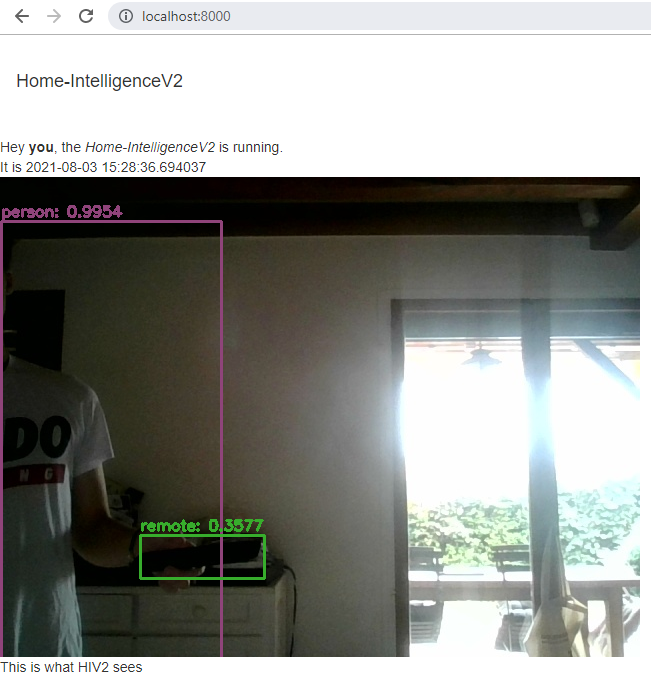
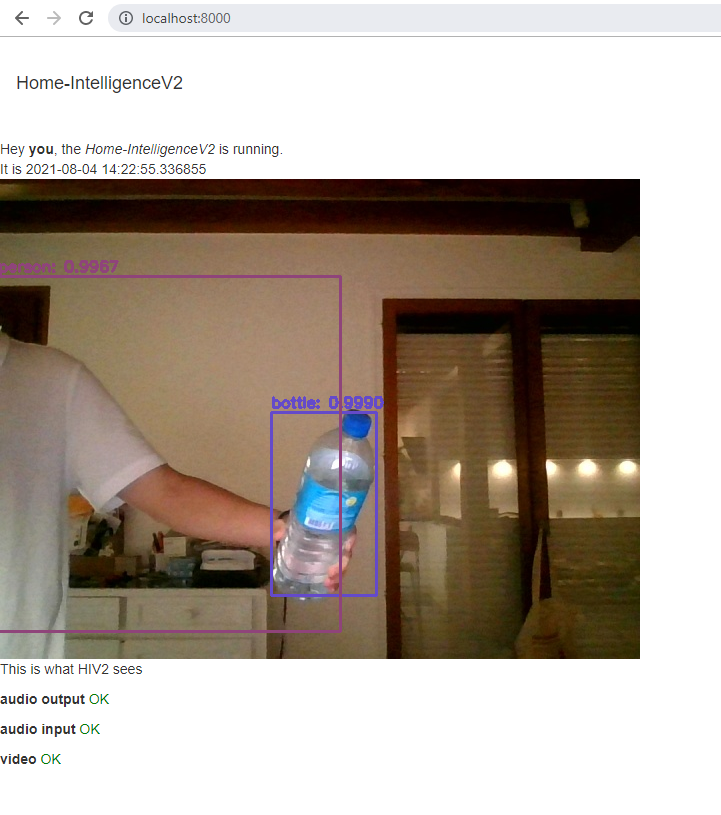
error handling & better cv & interface

diff --git a/server.py b/server.py
@@ -10,13 +10,16 @@ import signal
 import sys
 import random
 
-from config import config
+import config
 
 def signal_handler(sig, frame):
-	print('Exiting...')
+	print('Home-IntelligenceV2 is exiting...')
 	sys.exit(0)
 
 class MyHttpRequestHandler(http.server.SimpleHTTPRequestHandler):
+	video_status = 'NO'
+	audio_input_status = 'NO'
+	audio_output_status = 'NO'
 	def do_GET(self):
 		if "." in self.path:
 			return http.server.SimpleHTTPRequestHandler.do_GET(self)
@@ -27,9 +30,27 @@ class MyHttpRequestHandler(http.server.SimpleHTTPRequestHandler):
 		html = html + '<nav class="navbar navbar-light bg-light"><span class="navbar-brand mb-0 h1">Home-IntelligenceV2</span></nav>'
 		html = html + 'Hey <b>you</b>, the <i>Home-IntelligenceV2</i> is running.</br>'
 		html = html + 'It is ' + str(date) + '</br>'
+		if (self.audio_output_status == 'OK' and self.audio_input_status == 'OK' and self.video_status == 'OK'):
+			html = html + '<div class="card" style="width: 18rem;"><img class="card-img-top" src="camCaptureInterpretation.png?'+str(random.randint(1,5))+'" alt="Card image cap"><div class="card-body"><p class="card-text">This is what HIV2 sees</p></div></div>'
+		
+		if self.audio_output_status == 'OK':
+			html = html + '<p><b>audio output </b> <span style="color: green;">'+self.audio_output_status+'</span></p>'
+		else:
+			html = html + '<p><b>audio output </b> <span style="color: red;">'+self.audio_output_status+'</span></p>'
 
-		html = html + '<div class="card" style="width: 18rem;"><img class="card-img-top" src="camCaptureInterpretation.png?'+str(random.randint(1,5))+'" alt="Card image cap"><div class="card-body"><p class="card-text">This is what HIV2 sees</p></div></div>'
+		if self.audio_input_status == 'OK':
+			html = html + '<p><b>audio input </b> <span style="color: green;">'+self.audio_input_status+'</span></p>'
+		else:
+			html = html + '<p><b>audio input </b> <span style="color: red;">'+self.audio_input_status+'</span></p>'
 
+		if self.video_status == 'OK':
+			html = html + '<p><b>video </b> <span style="color: green;">'+self.video_status+'</span></p>'
+		else:
+			html = html + '<p><b>video </b> <span style="color: red;">'+self.video_status+'</span></p>'
+
+		if (self.audio_output_status != 'OK' or self.audio_input_status != 'OK' or self.video_status != 'OK'):
+			html = html + '<p style="color: orange;">You must fix these issues before using Home-IntelligenceV2 - Check <a href="https://github.com/leosncz/Home-IntelligenceV2">this link.</a></p>'
+		
 		html = html + '</body></html>'
 		self.send_response(200)
 		self.send_header("Content-type", "text/html")
@@ -40,9 +61,19 @@ class MyHttpRequestHandler(http.server.SimpleHTTPRequestHandler):
 class server:
 	PORT = 8000
 	handler = 0
+
 	def __init__(self, port):
 		self.handler = MyHttpRequestHandler
 		self.PORT = port
+		
+		# SYS CHECK
+			# video check
+		webcam_test = webcam()
+		self.handler.video_status = webcam_test.isCameraAlive()
+			# audio_input check TODO
+		self.handler.audio_input_status = 'OK'
+			# audio_output check TODO
+		self.handler.audio_output_status = 'OK'
 
 	def start(self):
 		signal.signal(signal.SIGINT, signal_handler)
@@ -50,6 +81,7 @@ class server:
 		print("Home-IntelligenceV2 is running at localhost:" + str(self.PORT))
 
 		thread = Thread(target = self.serve_http, args = (my_server,))
+		thread.setDaemon(True)
 		thread.start()
 		
 		self.mainLoop()
@@ -61,7 +93,7 @@ class server:
 		i = datetime.now()
 
 		while 0 == 0: # Main loop
-			if (datetime.now() - i).total_seconds() >= 5: # Capture webcam every 5 seconds
+			if (datetime.now() - i).total_seconds() >= 5 and (self.handler.audio_output_status == 'OK' and self.handler.audio_input_status == 'OK' and self.handler.video_status == 'OK'): # Capture webcam every 5 seconds
 				userWebcam.capture()
 				recognizedObjects = objReco.recognition()
 				i = datetime.now()

diff --git a/config.py b/config.py
@@ -6,9 +6,8 @@
 separator_words = ['and','then','et','puis'] # Here I put only english & french separator words, up to you to add in your language
 
 # This part is self-explanatory
-orders = [
-	'allume': ['salon': 'url', 'cuisine': 'url', 'entre': 'url'],
-	'etein': ['salon': 'url', 'cuisine': 'url', 'entre': 'url'],
-	'ouvre': ['portail': 'url'],
-	'ferme': ['portail': 'url']
-	]
+orders = {"allume": {"salon": "url", "cuisine": "url", "entre": "url"},
+	"etein": {"salon": "url", "cuisine": "url", "entre": "url"},
+	"ouvre": {"portail": "url"},
+	"ferme": {"portail": "url"}
+	}

diff --git a/webcam.py b/webcam.py
@@ -10,3 +10,10 @@ class webcam:
 		else:
 			print("Error! No webcam")
 			sys.exit()
+	def isCameraAlive(self):
+		cam = VideoCapture(0+cv2.CAP_DSHOW)   # 0 -> index of camera
+		s, img = cam.read()
+		if s:    # frame captured without any errors
+    			return 'OK'
+		else:
+			return 'NO'

diff --git a/README.md b/README.md
@@ -7,8 +7,9 @@ The final goal is to connect this system to a home API like Jeedom in order for 
 
 ## For now ?
 It is still in development. </br></br>
-Actual interface state: </br>
+Actual state: </br>
 ![example](images_for_github/demo.png)
+![example](images_for_github/demo2.png)
 
 ## Installation
 You only need **python 3.7** and install dependencies in **installation** file.
